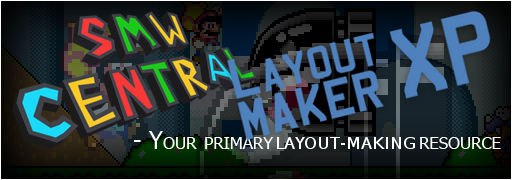
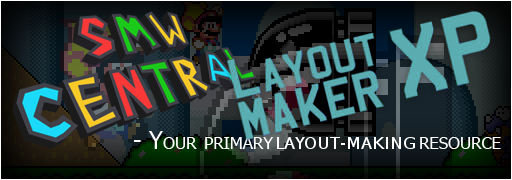
v1.3

Changed region(s): [[0.4375, 0.0556, 0.9688, 0.7778]]

diff --git a/ly-maker.html b/ly-maker.html
@@ -19,7 +19,7 @@
     section:first-of-type h2 {margin: -3px -3px 3px;}
     section {
       border: 1px solid #000;
-      margin: 10px;
+      margin: 9px;
       min-width: 600px;
       background: #222;
     }
@@ -40,27 +40,27 @@
       width: 100%;
       box-sizing: border-box;
     }
+    input {padding: 2px;}
     
-    .theme input, .theme button, .theme select, .theme textarea {background: #111;}
-    .theme button {background: #444;} /* This only applies to the Fallback CSS when selected as a theme. */
-    input[type=color] {padding: 0 1px; margin-right: 3px; width: 23px; flex-shrink: 0;}
+    .theme input, .theme button, .theme select, .theme textarea {background: #111;} /* This only applies to the Fallback CSS when selected as a theme. */
+    input[type=color] {padding: 0 1px; margin-right: 3px; width: 21px; height: 21px; flex-shrink: 0;}
     
     ul {list-style-type: square; margin: 0; padding-left: 20px;}
     .hoverunderspan {border-bottom: 1px dashed #FFF; cursor: help;}
     
+    form {display: inline;}
     textarea {max-width: 100%;}
     input[readonly], input[disabled] {cursor: not-allowed;}
     input[type=checkbox] {width: auto;}
-    button, input[type=submit], input[type=reset] {width: auto; padding: 1px 4px;}
-    input[type=reset] {color: #AE654C !important; font-weight: bold;}
+    button, input[type=submit], input[type=reset] {font-weight: bold; width: auto; padding: 2px 4px;}
     
     table {border-collapse: collapse; border: 1px solid #444; margin: 0;}
     th, td {border: 0; padding: 6px 5px 7px;}
-    th {background: #444; text-align: center;}
+    th {background: #444;}
     td {width: 300px; max-width: 300px; border-bottom: 1px dashed #444;}
     tr td:first-of-type {border-right: 1px solid #444; text-align: right;}
     .tablewrap {overflow: auto; display: inline-block;}
-    .multiinput {display: flex;}
+    .multiinput {display: flex; align-items: flex-start;}
     #postborderWidth, #quoteborderWidth {width: 75px;}
     #postCustomFontType {width: initial;}
     
@@ -109,21 +109,21 @@
     }
   </style>
[1 lines of base64/hex data omitted]
-  <link href="ly-maker.css?ver=1.2" rel="stylesheet">
-  <script defer src="ly-maker.js?ver=1.2"></script>
+  <link href="ly-maker.css?ver=1.3" rel="stylesheet">
+  <script defer src="ly-maker.js?ver=1.3"></script>
 </head>
 
 <body class="theme1">
-  <header><img alt="Layout Maker by RanAS" src="ly-maker.jpg?ver=1.1"></header>
+  <header><img alt="Layout Maker by RanAS" src="ly-maker.jpg?ver=1.3"></header>
   <span style="/* Dirty hacks, dirty hacks, does whatever dirt can. */"><a href="https://www.smwcentral.net" style="margin: 10px 0 0 10px; text-shadow: 0 0 3px #000;">&lt;&lt;&lt; Click here to go back to SMWCentral</a></span>
 
   <section>
-    <h2>Layout Maker XP for SMWC - v1.2</h2>
+    <h2>Layout Maker XP for SMWC - v1.3</h2>
     This is a page for generating layouts usable in SMWCentral. Using this page on mobile devices is <strong>not</strong> recommended. It's possible to use the layouts generated here in other forums but they may not display/behave properly. You'll be able to see how the layout looks against a few of the website's themes which can be selected below:<br>
     <br>
     <label for="themeSelector" style="font-weight: bold;">Theme:</label> <select id="themeSelector" style="width: auto;">
       <option value="">Fallback CSS</option>
-      <option value="0">New Metro Blue</option>
+      <option value="0">Layout Maker XP</option>
       <option selected value="1">SMWC - Default</option>
       <option value="20">SMWC - C3 Modern Mario</option>
       <option value="21">SMWC - C3 8-Bit</option>
@@ -145,7 +145,6 @@
         <option value="14 t14r">SMWC - Social Red</option>
         <option value="14 t14g">SMWC - Social Green</option>
         <option value="14 t14b">SMWC - Social Blue</option>
-        <option value="15">SMWC - Pokey</option>
       </optgroup>
     </select> <noscript><b>JavaScript is required.</b></noscript><br>
     <br>
@@ -153,15 +152,15 @@
     Information on Layout Maker:<br>
     <ul>
       <li>Generating Mode (default) will generate the layout based on the inputs provided, Editing Mode will let you insert your own HTML to be previewed.</li>
-      <li>When manually inserting color values, they will go through a validator of sorts that will check if it uses one of these values (other values are invalid):
+      <li>When manually inserting color values, they will go through a validator of sorts that will check if it uses one of these formats (other formats are invalid):
       <ul>
         <li><strong>Hexadecimal:</strong> #00FF00 or #0F0</li>
         <li><strong>RGB:</strong> rgb(0, 255, 0)</li>
         <li><strong>HSL:</strong> hsl(120, 100%, 50%)</li>
-        <li>Alpha values must be inserted into the "opacity" fields as percentages when available.</li>
+        <li>Alpha values must be inserted into the "opacity" fields as percentages, when available.</li>
       </ul>
       </li>
-      <li>If the validator fails to recognize the value, it'll use the one in the color picker box right above it which might not display/behave properly on some browsers.</li>
+      <li>If the validator fails to recognize the value, it'll use the one in the color picker box right next to it which might not display/behave properly on some older web browsers.</li>
       <li>The background order of visibility is, from closest to furthest: Post Box Background, Side Image, 2nd Background, Background.</li>
       <li>If using any of the signatures generated here, <strong>please disable the signature/footer separator on Edit Profile.</strong></li>
       <li>The default layout generated here (by not changing any settings) is for previewing/testing purposes only, please don't actually use it.</li>
@@ -174,15 +173,15 @@
       <li><strong>Your layout must follow <a href="https://www.smwcentral.net/?p=viewthread&t=85467">SMWC's layout rules</a> if you actually want to use it.</strong></li>
       <li>Images need to be uploaded somewhere in order to work, local files can't be used directly. Usage of the File Bin is recommended.</li>
       <li>A maximum of around 200px of width is personally recommended for side images. Likewise, a maximum of around 200KB of filesize is recommended for all of your layout's resources in total.</li>
-      <li>You can use <a href="https://leaverou.github.io/contrast-ratio/">this tool</a> to check the contrast ratio between your background and text. Please try to keep it close to white or black as to preserve readability.</li>
+      <li>You can use <a href="https://leaverou.github.io/contrast-ratio/">this tool</a> to check the contrast ratio between your background and text. Please try to keep your layout's text color close to white or black as to preserve readability.</li>
       <li><a href="https://bin.smwcentral.net/u/26481/ly-maker-threadimg-2.png">Here's a quick explanation on what post margins/border/paddings are.</a> Basically, the margin is the area between the post and the frame and the padding is the area between the post's border and the text.</li>
       <li>If the post doesn't occupy the entire of the post frame (there's empty space at the bottom), change the <u>min-height: ???px;</u> property on your post layout to a higher value. This problem depends on how much content is in the user's sidebar.</li>
     </ul>
     <br>
-    Created on Dec. 03, 2016. Last updated: June 06, 2017.<br>
+    Created on December 03, 2016. Last updated: October 04, 2017.<br>
     <br>
     
-    <div class="tablewrap">
+    <form action="javascript:;"><div class="tablewrap">
       <table>
         <tbody>
           <tr><th colspan="2">Background</th></tr>
@@ -260,7 +259,7 @@
             </td>
           </tr>
           <tr>
-            <td><span class="hoverunderspan" title="This is used for the minimum height property to prevent posts from not occupying all of the post frame. The generator will add 100px to this value. May not work 100% of the time due to being user-dependant.">Avatar Height:</span>*</td>
+            <td><span class="hoverunderspan" title="This is used for the minimum height property to prevent posts from not occupying all of the post frame. The generator will add 100px to this value. This may not work 100% of the time due to being user-dependant.">Avatar Height:</span>*</td>
             <td><input id="postAvatarHeight" max="150" min="0" placeholder="0" type="number"></td>
           </tr>
           
@@ -369,7 +368,7 @@
             </td>
           </tr>
           <tr>
-            <td><span class="hoverunderspan" title="The first value is how right-shifted the text will be, the second value is how down-shifted it will be, both allow negative values. The third value is how blurry it'll be.">Text Shadow Width</span> (px):</td>
+            <td><span class="hoverunderspan" title="The first value is how right-shifted the text will be and the second value is how down-shifted it will be, both allow negative values. The third value is how blurry it'll be.">Text Shadow Width</span> (px):</td>
             <td>
               <div class="multiinput">
                 <input id="postboxShadow1" max="15" min="-15" placeholder="0" type="number">&nbsp;
@@ -500,6 +499,14 @@
             <td><input id="layoutname" type="text"></td>
           </tr>
           <tr>
+            <td>
+              <small>
+                Click this button to reset all values inserted above:
+              </small>
+            </td>
+            <td><input type="reset" id="resetButton" value="Reset All Values" onclick="javascript:resetInputs();"></td>
+          </tr>
+          <tr>
             <td colspan="2" style="text-align: center;"><small>*Required field (if no value is specified a generic value will be generated in its place)</small></td>
           </tr>
         </tbody>
@@ -509,10 +516,10 @@
     <br>
     <input id="experimentalHSL" type="checkbox"><label for="experimentalHSL">Enable HSL to RGB color converter.</label><br>
     <input id="generateInline" type="checkbox"><label for="generateInline">Generate no linebreaks in the CSS code.</label><br>
-    <input id="ignoreErrors" type="checkbox"><label for="ignoreErrors">Ignore most warnings and errors. <b>(not recommended)</b></label><br>
+    <input id="ignoreErrors" type="checkbox"><label for="ignoreErrors">Ignore most warnings and errors. <strong>(not recommended)</strong></label><br>
     <input id="exportCSSfile" type="checkbox"><label for="exportCSSfile">Export and format CSS to an external file.</label> <a id="externalCSSanchor" target="_blank"></a><br>
     <br>
-    <button id="previewButton" onclick="javascript:makeLayout();">Preview/Generate Layout</button> <button id="editingButton" onclick="javascript:switchMode();">Switch to Editing Mode</button> <noscript><b>JavaScript is required.</b></noscript><br>
+    <button id="generateButton" onclick="javascript:makeLayout();">Generate Layout</button></form> <button id="previewButton" onclick="javascript:previewLayout();" style="display: none;">Preview Layout</button> <button id="switchButton" onclick="javascript:switchMode();">Switch Modes</button> <strong>- Currently <span id="currentModeText"><noscript>disabled. Layout Maker XP needs JavaScript enabled in order to work.</noscript></span></strong><br>
     <br>
     
     <strong>Layout Header:</strong><br>

diff --git a/ly-maker.js b/ly-maker.js
@@ -1,11 +1,21 @@
 "use strict";
 document.getElementById("themeSelector").onchange = function() {themeChange();};
+(function () {
+    document.getElementById("currentModeText").innerHTML = "in <u>Generating Mode</u>";
+})();
 function themeChange() {
     var num = document.getElementById("themeSelector").value;
     document.getElementsByTagName("body")[0].className = "theme" + num;
 }
+function resetInputs() {
+    if (!confirm("This action will reset the values in all input fields except for the Layout Header and Footer.")) {
+        document.getElementById("resetButton").disabled = 'disabled';
+        setTimeout(clearData, 10);
+    }
+}
 function clearData() {
-    document.getElementById("ly-makerPreview").innerHTML = "<div style=\"padding: 1px 4px;\"><div class=\"quote\"><span class=\"boxhead\">Originally posted by Sample quote</span>" + 
+    document.getElementById("ly-makerPreview").innerHTML = "<h2>Layout Preview</h2>" + 
+    "<div style=\"padding: 1px 4px;\"><div class=\"quote\"><span class=\"boxhead\">Originally posted by Sample quote</span>" + 
     "<div class=\"box\"><div class=\"quote\"><span class=\"boxhead\">Originally posted by Sample nested quote</span><div class=\"box\"><div class=\"spoiler\">" + 
     "<div class=\"spoilerInner\">Sample spoiler</div></div><br>Sample text</div></div><br><a href=\"#\">Sample link</a><br>Sample quote</div></div><br><div class=\"code\">" + 
     "<span class=\"boxhead\">Code</span><pre class=\"box\">Sample code</pre></div><br><a href=\"#\">Sample link</a><br>Sample post with <b>bold</b> and <i>italics</i>.</div>";
@@ -13,21 +23,22 @@ function clearData() {
     document.getElementById("warnings").innerHTML = "";
     document.getElementById("errors").style.display = "none";
     document.getElementById("warnings").style.display = "none";
+    document.getElementById("resetButton").disabled = "";
 }
 function switchMode() {
     if (document.getElementById("ly-makerHeader").readOnly === true) {
         document.getElementById("ly-makerHeader").readOnly = false;
         document.getElementById("ly-makerFooter").readOnly = false;
-        document.getElementById("previewButton").setAttribute("onclick","previewLayout()");
-        document.getElementById("previewButton").innerHTML = "Preview Layout";
-        document.getElementById("editingButton").innerHTML = "Switch to Generating Mode";
+        document.getElementById("generateButton").style.display = "none";
+        document.getElementById("previewButton").style.display = "";
+        document.getElementById("currentModeText").innerHTML = "in <u>Editing Mode</u>";
     } else if (document.getElementById("ly-makerHeader").readOnly === false) {
         alert("You're now in Generating Mode, clicking the preview button at this time will remove the content in the Layout Header and Footer boxes.");
         document.getElementById("ly-makerHeader").readOnly = true;
         document.getElementById("ly-makerFooter").readOnly = true;
-        document.getElementById("previewButton").setAttribute("onclick","makeLayout()");
-        document.getElementById("previewButton").innerHTML = "Preview/Generate Layout";
-        document.getElementById("editingButton").innerHTML = "Switch to Editing Mode";
+        document.getElementById("generateButton").style.display = "";
+        document.getElementById("previewButton").style.display = "none";
+        document.getElementById("currentModeText").innerHTML = "in <u>Generating Mode</u>";
     }
 }
 function previewLayout() {
@@ -37,8 +48,10 @@ function previewLayout() {
     layoutheader = layoutheader.replace(/<(iframe|script|meta)>(.*)<\/\1>/ig, "");
     layoutfooter = layoutfooter.replace(/<(iframe|script|meta)>(.*)<\/\1>/ig, "");
     var layouttester = layoutheader + layoutfooter;
-    var ly1 = layouttester.match(/<(div|style)/ig).length;
-    var ly2 = layouttester.match(/<\/(div|style)/ig).length;
+    var ly1 = layouttester.match(/<(div|style)/ig);
+    var ly2 = layouttester.match(/<\/(div|style)/ig);
+    if (!ly1) {ly1 = 0;} else {ly1 = ly1.length;}
+    if (!ly2) {ly2 = 0;} else {ly2 = ly2.length;}
     if (ly1 > ly2) {warningSystem("There's " + (ly1 - ly2) + " more opening tag(s) (ex. &lt;div&gt;) than closing tag(s) (ex. &lt;/div&gt;).");}
     if (ly1 < ly2) {warningSystem("There's " + Math.abs(ly1 - ly2) + " more closing tag(s) (ex. &lt;/div&gt;) than opening tag(s) (ex. &lt;div&gt;).");}
     document.getElementById("ly-makerPreview").innerHTML = "<h2>Layout Preview</h2>" + layoutheader + 
@@ -130,12 +143,12 @@ function makeLayout() {
         if (sideimgWidth > 200) {warningSystem("The side image's width has a very high value. It's recommended to use values near or below 200px.");}
         if (postborderWidth > 7) {warningSystem("The post box border has a very high value. Make sure it doesn't occupy too much unnecessary space.");}
         if (quoteborderWidth > 7) {warningSystem("The quote/code box border has a very high value. Make sure it doesn't occupy too much unnecessary space.");}
-        if (Math.abs(postboxShadow1) > 5||Math.abs(postboxShadow2) > 5) {warningSystem("The text shadow has a very high offset value. Make sure it doesn't obstruct or interfere with nearby text.");}
+        if (Math.abs(postboxShadow1) > 5||Math.abs(postboxShadow2) > 5) {warningSystem("The text shadow has a very high offset value. Make sure it doesn't obstruct or interfere with the nearby text.");}
         if (postboxShadow3 > 20) {warningSystem("The text shadow has a very high blur value. The text shadow opacity reduces signficantly with more blur, try using lower values.");}
         var url1 = bgImg.match(/(^[A-Z]:\\)|(^file:\/\/)/);
         var url2 = bg2Img.match(/(^[A-Z]:\\)|(^file:\/\/)/);
         var url3 = sideimgUrl.match(/(^[A-Z]:\\)|(^file:\/\/)/);
-        if (url1||url2||url3) {warningSystem("You can't link to images on your computer. Well, you <i>can</i> but no one will be able to see it. You can upload images to the File Bin instead.");}
+        if (url1||url2||url3) {warningSystem("You can't link to images on your computer. Well, you <em>can</em> but no one will be able to see it. You can upload images to the File Bin instead.");}
     }
 //  Step 2 - Let's Organize These Colors:
     if (!postbgAlpha) {postbgAlpha = 100;}
@@ -244,7 +257,7 @@ function colorParser(colorPickerValue, colorValue, alpha, experimentalHSL, ignor
     colorValue = colorValue.toString();
     if (!colorValue.match(/^#[A-F,0-9]{3}$|^#[A-F,0-9]{6}$|^rgb\(\d\d?\d?, ?\d\d?\d?, ?\d\d?\d?\)$|^hsl\(\d\d?\d?, ?\d\d?\d?%, ?\d\d?\d?%\)$/i)) {colorValue = colorPickerValue;}
     // If an alpha value doesn't exist, there's no need to convert it to RGBA/HSLA.
-    if (alpha) {
+    if (alpha||experimentalHSL) {
         if (colorValue.match(/^hsl\(\d\d?\d?, ?\d\d?\d?%, ?\d\d?\d?%\)$/i)) {
             if (!experimentalHSL) {
                 colorValue = colorValue.replace(")", ", " + (alpha / 100) + ")");
@@ -260,6 +273,7 @@ function colorParser(colorPickerValue, colorValue, alpha, experimentalHSL, ignor
             colorValue = hslToRgb(hsl1, hsl2, hsl3);
             // The external formula assumes all values are in a range of 0 through 1 which is just dumb.
         }
+        if (!alpha) {return colorValue;} // Prevents this function from proceeding if we only have experimentalHSL and not alpha.
         if (colorValue.match(/^#[A-F,0-9]{3}$/i)) {
             var hex1 = colorValue.substring(1, 2);
             var hex2 = colorValue.substring(2, 3);

diff --git a/ly-maker.css b/ly-maker.css
@@ -1,9 +1,9 @@
-/* New Metro Blue */
+/* Layout Maker XP */
 
-body.theme0 {background: #121521;}
+body.theme0 {background: #000 url(https://bin.smwcentral.net/u/26481/LayoutRAN_HexTeal.png);}
 .theme0 section {
-    background: #161A28;
-    border-color: #4C65AE;
+    background: #071313;
+    border-color: #266;
     border-width: 0 1px;
     padding: 7px !important;
 }
@@ -17,28 +17,25 @@ body.theme0 {background: #121521;}
 }
 .theme0 input, .theme0 button, .theme0 input[type=submit], .theme0 select, .theme0 textarea {
     margin: 1px;
-    padding: 2px;
-    border-color: #4C65AE;
-    background: #1D2438;
+    border-color: #266;
+    background: #122;
 }
 
-.theme0 option {background: #1D2438;}
-.theme0 button, .theme0 input[type=submit] {background: #4C65AE; font-family: inherit; padding: 0 3px;}
-.theme0 button:active, .theme0 input[type=submit]:active {background: #7185C1; border-color: #7185C1;}
+.theme0 option {background: #122;}
+.theme0 button:active, .theme0 input[type=submit]:active {background: #1A3333;}
 .theme0 textarea {border-width: 0 1px; padding: 3px;}
-.theme0 input[type=color] {padding: 0 1px;}
 
-.theme0 table {border-color: #4C65AE;}
-.theme0 tr td {border-color: #4C65AE;}
-.theme0 th {background: #4C65AE;}
-.theme0 tr {background: #273459;}
-.theme0 tr:nth-of-type(odd) {background: #1F2A47;}
+.theme0 table {border-color: #2F6A6A;}
+.theme0 tr td {border-color: #2F6A6A;}
+.theme0 th {background: #2F6A6A;}
+.theme0 tr {background: #1F4747;}
+.theme0 tr:nth-of-type(odd) {background: #173535;}
 
 .theme0 .quote .box {border-color: #405060;}
-.theme0 a {color: #4C65AE;}
-.theme0 section:not(#ly-makerPreview) a:hover {color: #95A4D0;}
+.theme0 a {color: #69C9C9;}
+.theme0 section:not(#ly-makerPreview) a:hover {color: #69C9C9;}
 
-.theme0 #ly-makerPreview {padding: 0 !important;}
+.theme0 #ly-makerPreview {padding: 0 !important; border-width: 1px;}
 .theme0 #ly-makerPreview>h2 {display: none;}
 
 
@@ -67,7 +64,6 @@ body.theme1 {background: #000 url(https://www.smwcentral.net/images/background.g
 }
 
 .theme1 input, .theme1 button, .theme1 select, .theme1 textarea {border-color: #405060;}
-.theme1 button {background: #405060;}
 
 .theme1 table {border-color: #405060;}
 .theme1 tr td {border-color: #405060;}
@@ -102,7 +98,6 @@ body.theme20 {background: #000 url(https://www.smwcentral.net/html/c3s2016/image
 }
 
 .theme20 input, .theme20 button, .theme20 select, .theme20 textarea {border-color: #405060;}
-.theme20 button {background: #405060;}
 
 .theme20 table {border-color: #405060;}
 .theme20 tr td {border-color: #405060;}
@@ -137,7 +132,6 @@ body.theme21 {background: #000 url(https://www.smwcentral.net/html/c3theme8bit/i
 }
 
 .theme21 input, .theme21 button, .theme21 select, .theme21 textarea {border-color: #405060;}
-.theme21 button {background: #405060;}
 
 .theme21 table {border-color: #405060;}
 .theme21 tr td {border-color: #405060;}
@@ -176,7 +170,6 @@ body.theme22 {
 }
 
 .theme22 input, .theme22 button, .theme22 select, .theme22 textarea {border-color: #405060;}
-.theme22 button {background: #405060;}
 
 .theme22 table {border-color: #405060;}
 .theme22 tr td {border-color: #405060;}
@@ -193,7 +186,6 @@ body.theme23 {background: #14192A url(https://www.smwcentral.net/html/rainscheme
 
 .theme23 h2 {background: hsla(225, 30%, 35%, 0.65);}
 .theme23 input, .theme23 button, .theme23 select, .theme23 textarea {border-color: #347;}
-.theme23 button {background: #347;}
 
 .theme23 table {border-color: #313D60;}
 .theme23 tr td {border-color: #313D60;}
@@ -213,7 +205,6 @@ body.theme2 {background: #000 url(https://www.smwcentral.net/html/halloweenschem
 
 .theme2 h2 {background: #333;}
 .theme2 input, .theme2 button, .theme2 select, .theme2 textarea {border-color: #444;}
-.theme2 button {background: #444;}
 
 .theme2 table {border-color: #333;}
 .theme2 tr td {border-color: #333;}
@@ -231,7 +222,6 @@ body.theme3 {background: #000F1F url(https://www.smwcentral.net/html/nightscheme
 
 .theme3 h2 {background: #213;}
 .theme3 input, .theme3 button, .theme3 select, .theme3 textarea {border-color: #2F2F5F;}
-.theme3 button {background: #2F2F5F;}
 
 .theme3 table {border-color: #2F2F5F;}
 .theme3 tr td {border-color: #2F2F5F;}
@@ -508,26 +498,3 @@ body.theme14 {color: #000;}
 .t14g section:not(#ly-makerPreview) a:hover {color: #384938;}
 .t14b a {color: #3D3D50; font-weight: bold;}
 .t14b section:not(#ly-makerPreview) a:hover {color: #383849;}
-
-
-/* Pokey */
-
-body.theme15 {background: #C87830 url(https://www.smwcentral.net/html/pokeyscheme/pokeybackground.png);}
-.theme15 section {background: #915837;}
-
-.theme15 h2 {background: #403812 url(https://www.smwcentral.net/html/pokeyscheme/topbar2.png);}
-.theme15 input, .theme15 button, .theme15 select, .theme15 textarea {
-    border-color: #000;
-    color: #DEF;
-    border-image: url(https://www.smwcentral.net/html/pokeyscheme/topbar2.png) 1 stretch;
-}
-
-.theme15 table {border-color: #AB8D63;}
-.theme15 tr td {border-color: #AB8D63;}
-.theme15 th {background: #403812 url(https://www.smwcentral.net/html/pokeyscheme/topbar2.png); border-top: 1px solid #AB8D63;}
-
-.theme15 .code .boxhead {color: #DBB07D;}
-.theme15 .code .box {border: 1px solid #DBB07D; color: #DBB07D;}
-.theme15 .quote .box {border-color: #000;}
-.theme15 a {color: #E58639; font-weight: bold;}
-.theme15 section:not(#ly-makerPreview) a:hover {color: #FFF;}
